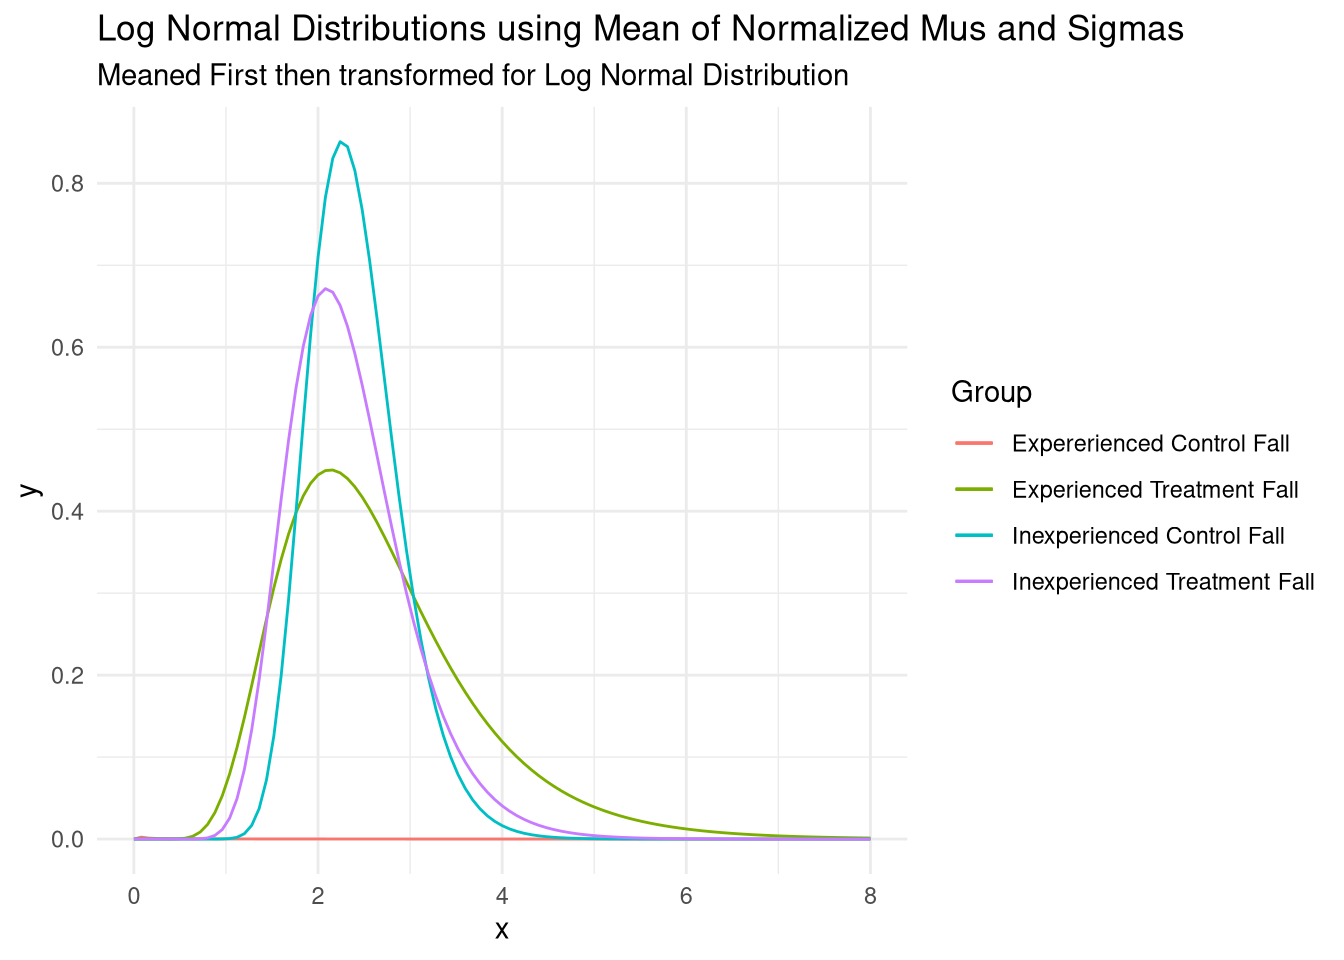
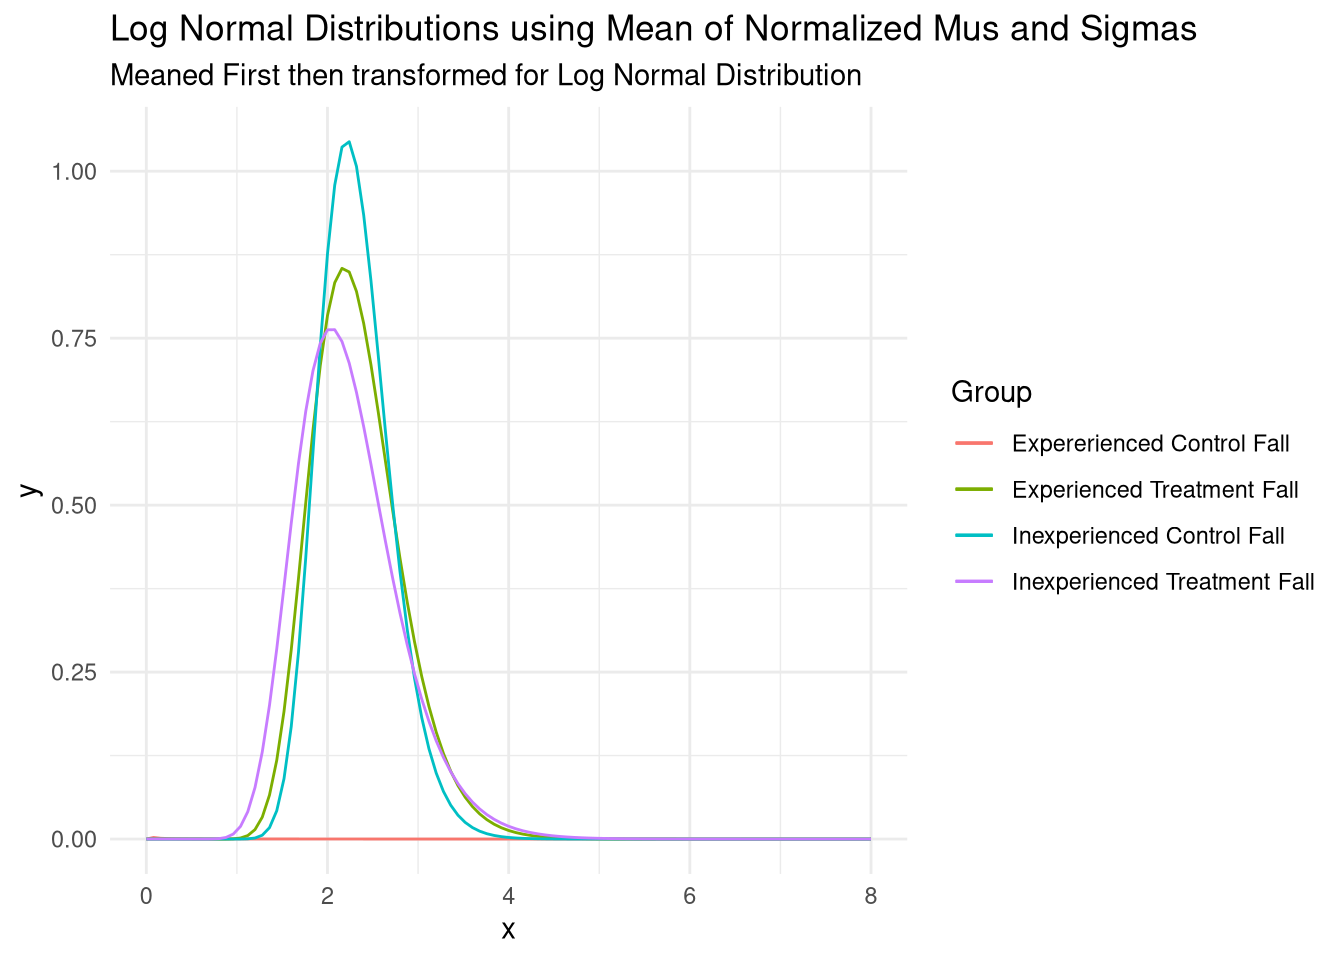
Build site.

diff --git a/docs/summaryStats.html b/docs/summaryStats.html
@@ -504,16 +504,16 @@ This reproducible <a href="http://rmarkdown.rstudio.com">R Markdown</a> analysis
 <div class="panel panel-default">
 <div class="panel-heading">
 <p class="panel-title">
-<a data-toggle="collapse" data-parent="#workflowr-checks" href="#strongRepositoryversionstrongahrefhttpsgithubcomshugamoecleanittree57ac17a29eb2e8e868396b844d74c0d62b3e2591targetblank57ac17aa"> <span class="glyphicon glyphicon-ok text-success" aria-hidden="true"></span> <strong>Repository version:</strong> <a href="https://github.com/shugamoe/cleanit/tree/57ac17a29eb2e8e868396b844d74c0d62b3e2591" target="_blank">57ac17a</a> </a>
+<a data-toggle="collapse" data-parent="#workflowr-checks" href="#strongRepositoryversionstrongahrefhttpsgithubcomshugamoecleanittree6a2ed0b1d1bd197871b64bf006a3c67b62bbbb0dtargetblank6a2ed0ba"> <span class="glyphicon glyphicon-ok text-success" aria-hidden="true"></span> <strong>Repository version:</strong> <a href="https://github.com/shugamoe/cleanit/tree/6a2ed0b1d1bd197871b64bf006a3c67b62bbbb0d" target="_blank">6a2ed0b</a> </a>
 </p>
 </div>
[2 lines of base64/hex data omitted]
 <div class="panel-body">
 <p>
 Great! You are using Git for version control. Tracking code development and connecting the code version to the results is critical for reproducibility.
 </p>
 <p>
-The results in this page were generated with repository version <a href="https://github.com/shugamoe/cleanit/tree/57ac17a29eb2e8e868396b844d74c0d62b3e2591" target="_blank">57ac17a</a>. See the <em>Past versions</em> tab to see a history of the changes made to the R Markdown and HTML files.
+The results in this page were generated with repository version <a href="https://github.com/shugamoe/cleanit/tree/6a2ed0b1d1bd197871b64bf006a3c67b62bbbb0d" target="_blank">6a2ed0b</a>. See the <em>Past versions</em> tab to see a history of the changes made to the R Markdown and HTML files.
 </p>
 <p>
 Note that you need to be careful to ensure that all relevant files for the analysis have been committed to Git prior to generating the results (you can use <code>wflow_publish</code> or <code>wflow_git_commit</code>). workflowr only checks the R Markdown file, but you know if there are other scripts or data files that it depends on. Below is the status of the Git repository when the results were generated:
@@ -570,6 +570,40 @@ Message
 </tr>
 </thead>
 <tbody>
+<tr>
+<td>
+Rmd
+</td>
+<td>
+<a href="https://github.com/shugamoe/cleanit/blob/6a2ed0b1d1bd197871b64bf006a3c67b62bbbb0d/analysis/summaryStats.Rmd" target="_blank">6a2ed0b</a>
+</td>
+<td>
+Julian McClellan
+</td>
+<td>
+2020-05-21
+</td>
+<td>
+Means First log normal distribution uses correct df now
+</td>
+</tr>
+<tr>
+<td>
+html
+</td>
+<td>
+<a href="https://rawcdn.githack.com/shugamoe/cleanit/307b2a26719c2cc32f03b51928271f08c30a16f1/docs/summaryStats.html" target="_blank">307b2a2</a>
+</td>
+<td>
+Julian McClellan
+</td>
+<td>
+2020-05-21
+</td>
+<td>
+Build site.
+</td>
+</tr>
 <tr>
 <td>
 Rmd
@@ -1578,6 +1612,17 @@ Date
 <tbody>
 <tr>
 <td>
+<a href="https://github.com/shugamoe/cleanit/blob/307b2a26719c2cc32f03b51928271f08c30a16f1/docs/figure/summaryStats.Rmd/mu_sigma_dists_better-3.png" target="_blank">307b2a2</a>
+</td>
+<td>
+Julian McClellan
+</td>
+<td>
+2020-05-21
+</td>
+</tr>
+<tr>
+<td>
 <a href="https://github.com/shugamoe/cleanit/blob/f274df3876784165745e8eb31e1d789883df86b8/docs/figure/summaryStats.Rmd/mu_sigma_dists_better-3.png" target="_blank">f274df3</a>
 </td>
 <td>
@@ -1669,6 +1714,17 @@ Date
 </tr>
 </thead>
 <tbody>
+<tr>
+<td>
+<a href="https://github.com/shugamoe/cleanit/blob/307b2a26719c2cc32f03b51928271f08c30a16f1/docs/figure/summaryStats.Rmd/mu_sigma_dists_better-4.png" target="_blank">307b2a2</a>
+</td>
+<td>
+Julian McClellan
+</td>
+<td>
+2020-05-21
+</td>
+</tr>
 <tr>
 <td>
 <a href="https://github.com/shugamoe/cleanit/blob/f274df3876784165745e8eb31e1d789883df86b8/docs/figure/summaryStats.Rmd/mu_sigma_dists_better-4.png" target="_blank">f274df3</a>
@@ -1764,6 +1820,17 @@ Date
 <tbody>
 <tr>
 <td>
+<a href="https://github.com/shugamoe/cleanit/blob/307b2a26719c2cc32f03b51928271f08c30a16f1/docs/figure/summaryStats.Rmd/mu_sigma_dists_better-5.png" target="_blank">307b2a2</a>
+</td>
+<td>
+Julian McClellan
+</td>
+<td>
+2020-05-21
+</td>
+</tr>
+<tr>
+<td>
 <a href="https://github.com/shugamoe/cleanit/blob/f274df3876784165745e8eb31e1d789883df86b8/docs/figure/summaryStats.Rmd/mu_sigma_dists_better-5.png" target="_blank">f274df3</a>
 </td>
 <td>
@@ -1855,6 +1922,17 @@ Date
 </tr>
 </thead>
 <tbody>
+<tr>
+<td>
+<a href="https://github.com/shugamoe/cleanit/blob/307b2a26719c2cc32f03b51928271f08c30a16f1/docs/figure/summaryStats.Rmd/mu_sigma_dists_better-6.png" target="_blank">307b2a2</a>
+</td>
+<td>
+Julian McClellan
+</td>
+<td>
+2020-05-21
+</td>
+</tr>
 <tr>
 <td>
 <a href="https://github.com/shugamoe/cleanit/blob/f274df3876784165745e8eb31e1d789883df86b8/docs/figure/summaryStats.Rmd/mu_sigma_dists_better-6.png" target="_blank">f274df3</a>
@@ -1950,6 +2028,17 @@ Date
 <tbody>
 <tr>
 <td>
+<a href="https://github.com/shugamoe/cleanit/blob/307b2a26719c2cc32f03b51928271f08c30a16f1/docs/figure/summaryStats.Rmd/mu_sigma_dists_better-7.png" target="_blank">307b2a2</a>
+</td>
+<td>
+Julian McClellan
+</td>
+<td>
+2020-05-21
+</td>
+</tr>
+<tr>
+<td>
 <a href="https://github.com/shugamoe/cleanit/blob/f274df3876784165745e8eb31e1d789883df86b8/docs/figure/summaryStats.Rmd/mu_sigma_dists_better-7.png" target="_blank">f274df3</a>
 </td>
 <td>
@@ -2041,6 +2130,17 @@ Date
 </tr>
 </thead>
 <tbody>
+<tr>
+<td>
+<a href="https://github.com/shugamoe/cleanit/blob/307b2a26719c2cc32f03b51928271f08c30a16f1/docs/figure/summaryStats.Rmd/mu_sigma_dists_better-8.png" target="_blank">307b2a2</a>
+</td>
+<td>
+Julian McClellan
+</td>
+<td>
+2020-05-21
+</td>
+</tr>
 <tr>
 <td>
 <a href="https://github.com/shugamoe/cleanit/blob/f274df3876784165745e8eb31e1d789883df86b8/docs/figure/summaryStats.Rmd/mu_sigma_dists_better-8.png" target="_blank">f274df3</a>
@@ -2196,6 +2296,17 @@ Date
 <tbody>
 <tr>
 <td>
+<a href="https://github.com/shugamoe/cleanit/blob/307b2a26719c2cc32f03b51928271f08c30a16f1/docs/figure/summaryStats.Rmd/mu_sigma_dists_better-10.png" target="_blank">307b2a2</a>
+</td>
+<td>
+Julian McClellan
+</td>
+<td>
+2020-05-21
+</td>
+</tr>
+<tr>
+<td>
 <a href="https://github.com/shugamoe/cleanit/blob/f274df3876784165745e8eb31e1d789883df86b8/docs/figure/summaryStats.Rmd/mu_sigma_dists_better-10.png" target="_blank">f274df3</a>
 </td>
 <td>
@@ -2314,6 +2425,17 @@ Date
 </tr>
 </thead>
 <tbody>
+<tr>
+<td>
+<a href="https://github.com/shugamoe/cleanit/blob/307b2a26719c2cc32f03b51928271f08c30a16f1/docs/figure/summaryStats.Rmd/mu_sigma_dists_better-12.png" target="_blank">307b2a2</a>
+</td>
+<td>
+Julian McClellan
+</td>
+<td>
+2020-05-21
+</td>
+</tr>
 <tr>
 <td>
 <a href="https://github.com/shugamoe/cleanit/blob/f274df3876784165745e8eb31e1d789883df86b8/docs/figure/summaryStats.Rmd/mu_sigma_dists_better-12.png" target="_blank">f274df3</a>
